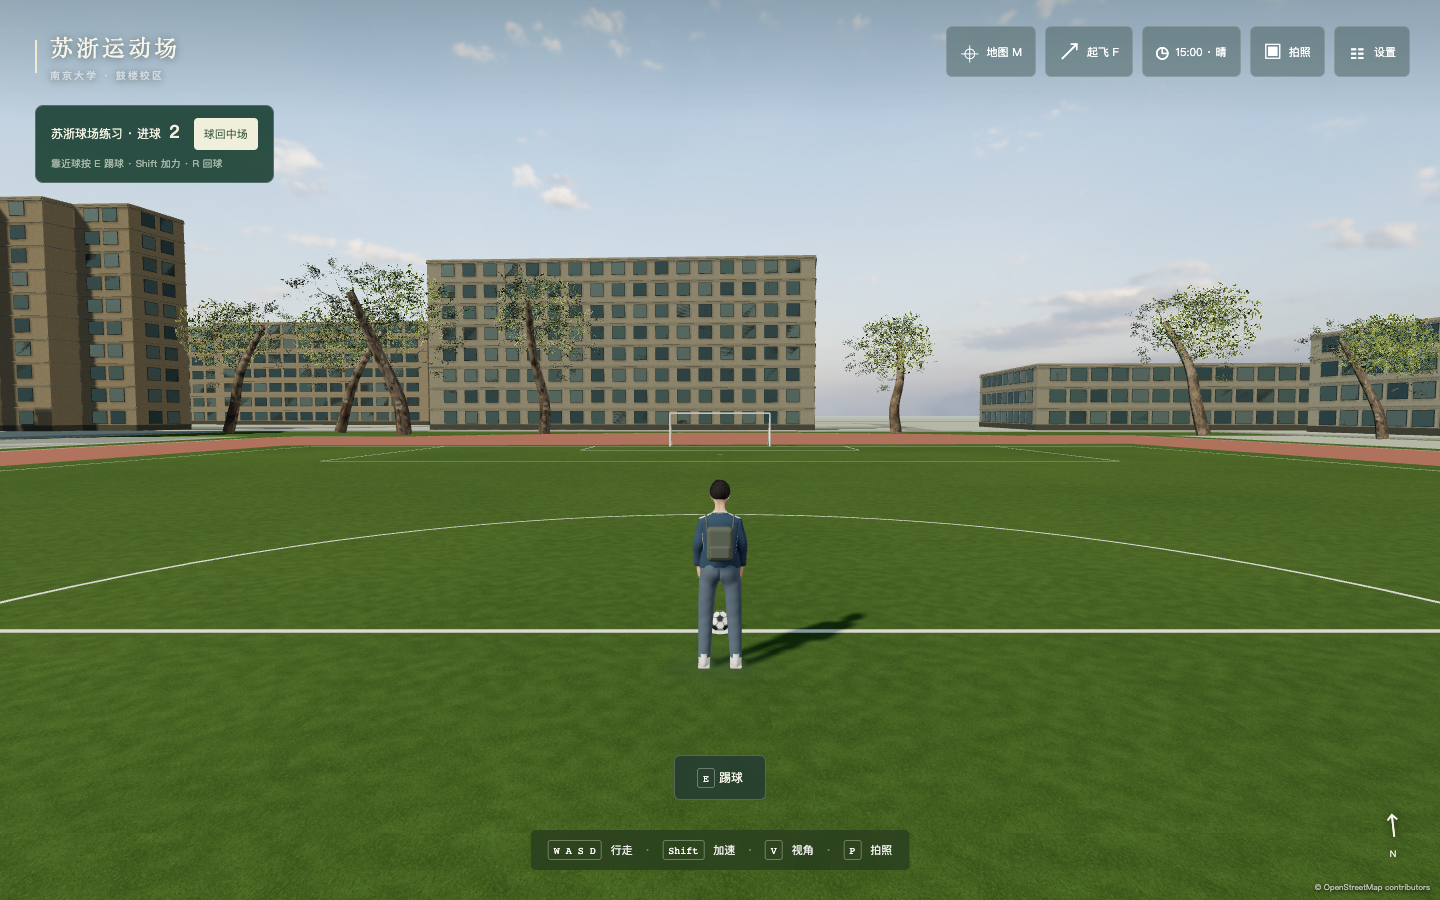
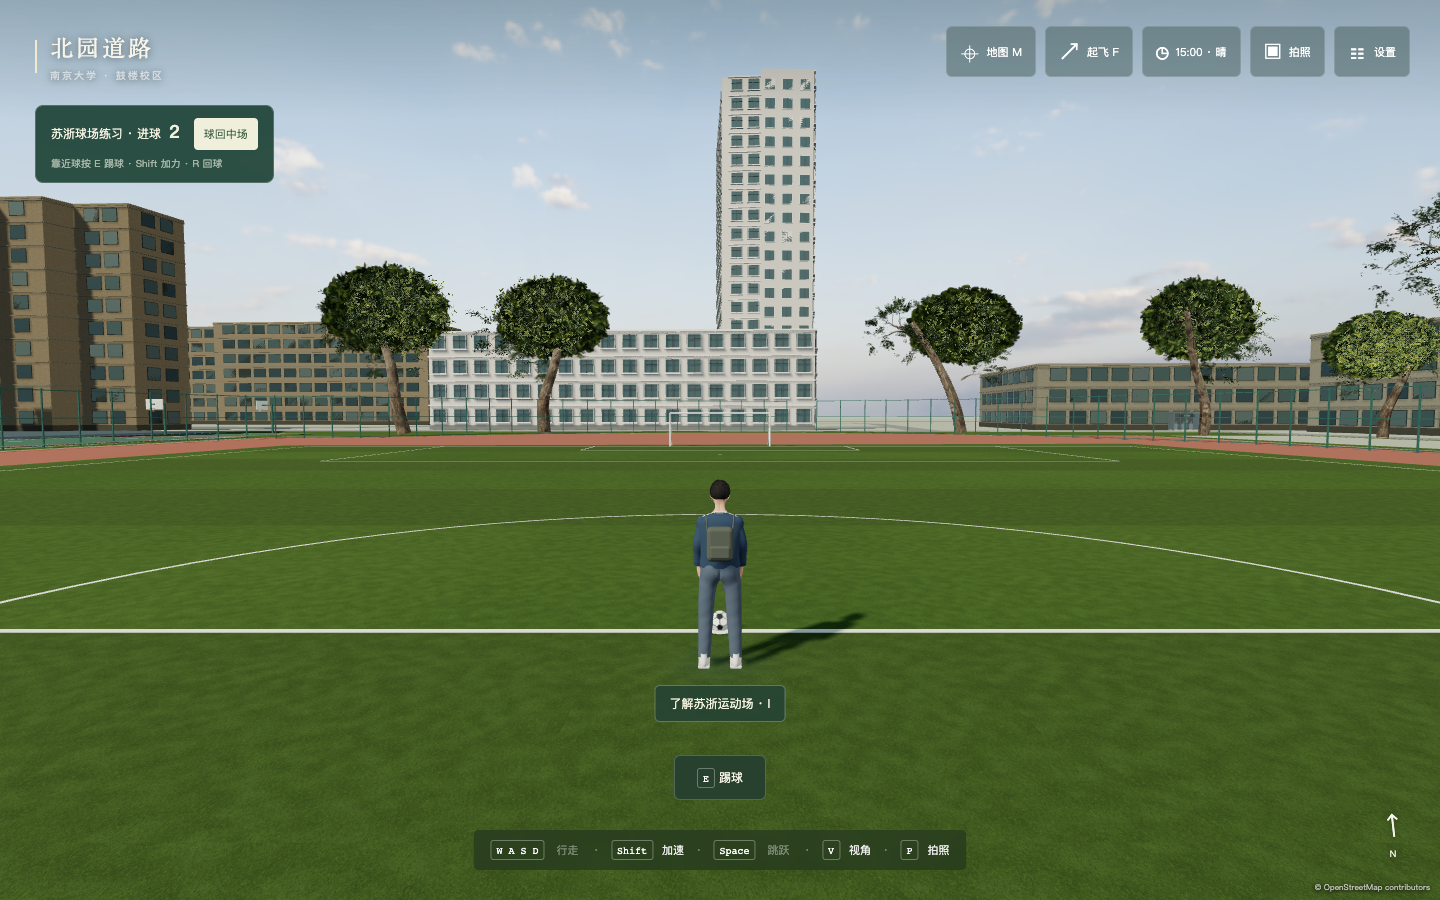
Refine Suzhe sports courts, open gates and roofed podium

diff --git a/src/world/sports-ground.ts b/src/world/sports-ground.ts
@@ -1,0 +1,135 @@
+import * as T from 'three';
+import {Builder} from './geometry.ts';
+import {insideRing,planShape} from './campus-map.ts';
+import type {Materials} from './materials.ts';
+import {sportsCourts,sportsFence,sportsGates,sportsStand} from './sports-layout.ts';
+
+type Point = [number,number];
+function frame(points:number[][]){
+  const x=points.reduce((s,p)=>s+p[0],0)/points.length,z=points.reduce((s,p)=>s+p[1],0)/points.length;
+  const width=(Math.hypot(points[1][0]-points[0][0],points[1][1]-points[0][1])+Math.hypot(points[2][0]-points[3][0],points[2][1]-points[3][1]))/2;
+  const length=(Math.hypot(points[3][0]-points[0][0],points[3][1]-points[0][1])+Math.hypot(points[2][0]-points[1][0],points[2][1]-points[1][1]))/2;
+  const angle=Math.atan2(points[3][0]+points[2][0]-points[0][0]-points[1][0],points[3][1]+points[2][1]-points[0][1]-points[1][1]);
+  return{x,z,width,length,angle,point:(u:number,y:number,v:number)=>new T.Vector3(x+u*Math.cos(angle)+v*Math.sin(angle),y,z-u*Math.sin(angle)+v*Math.cos(angle))};
+}
+
+/** Keep planting out of playing surfaces and the paths immediately around them. */
+export function sportsClearance(x:number,z:number){
+  if(insideRing(x,z,sportsFence))return true;
+  if(sportsGates.some(g=>Math.hypot(x-g.x,z-g.z)<6))return true;
+  return [...sportsCourts.map(c=>c.points),sportsStand].some(points=>{
+    const f=frame(points),dx=x-f.x,dz=z-f.z;
+    return Math.abs(dx*Math.cos(f.angle)-dz*Math.sin(f.angle))<f.width/2+2.5&&Math.abs(dx*Math.sin(f.angle)+dz*Math.cos(f.angle))<f.length/2+2.5;
+  });
+}
+
+export function createSportsGround(mats:Materials){
+  const b=new Builder();
+  const material=(name:string,color:number)=>new T.MeshStandardMaterial({name,color,roughness:.88});
+  const red=material('sports red court',0x98564c),green=material('sports green court',0x486d58),paint=material('sports court lines',0xe7e7d8);
+  // Existing campus paving uses a -1 depth bias. Keep these shallow overlays
+  // ordered above it even at grazing angles without changing global road depth.
+  for(const [index,mat] of [red,green,paint].entries()){
+    mat.polygonOffset=true;mat.polygonOffsetFactor=-(index+2);mat.polygonOffsetUnits=-(index+2);
+  }
+  const metal=material('sports green fence and supports',0x376459),roof=material('sports podium pale roof',0xd1cebc),step=material('sports podium grey steps',0xaaa99d);
+  step.map=mats.textures.get('stone-grain.webp')??null;
+  const glass=material('sports podium rear glazing',0x6f8581),board=material('sports backboards',0xcdd8cd),rim=material('sports orange hoops',0xbe6541);
+  const surf=(points:number[][],mat:T.Material,y=.055)=>b.add(new T.ShapeGeometry(planShape({points})).rotateX(-Math.PI/2),mat,0,y,0);
+  const meshCanvas=document.createElement('canvas');meshCanvas.width=meshCanvas.height=64;
+  const ctx=meshCanvas.getContext('2d')!;ctx.strokeStyle='#446f5e';ctx.lineWidth=2.4;ctx.beginPath();
+  ctx.moveTo(0,32);ctx.lineTo(32,0);ctx.lineTo(64,32);ctx.lineTo(32,64);ctx.closePath();ctx.stroke();
+  const meshTexture=new T.CanvasTexture(meshCanvas);meshTexture.colorSpace=T.SRGBColorSpace;meshTexture.wrapS=meshTexture.wrapT=T.RepeatWrapping;
+  const meshMat=new T.MeshStandardMaterial({name:'sports diamond wire mesh',map:meshTexture,alphaTest:.3,side:T.DoubleSide,roughness:.85});
+  const net=(a:T.Vector3,c:T.Vector3,height:number,cell=.18)=>{
+    const dx=c.x-a.x,dz=c.z-a.z,w=Math.hypot(dx,dz),geo=new T.PlaneGeometry(w,height),uv=geo.getAttribute('uv');
+    for(let i=0;i<uv.count;i++)uv.setXY(i,uv.getX(i)*w/cell,uv.getY(i)*height/cell);
+    b.add(geo,meshMat,(a.x+c.x)/2,a.y+height/2,(a.z+c.z)/2,new T.Euler(0,Math.atan2(-dz,dx),0));
+  };
+  for(const court of sportsCourts){
+    const f=frame(court.points),p=f.point;
+    surf(court.points,red);
+    const box=(w:number,h:number,d:number,u:number,y:number,v:number,mat:T.Material,solid=false)=>{const q=p(u,y,v);b.box(w,h,d,q.x,q.y,q.z,mat,solid,f.angle);};
+    const line=(u:number,v:number,w:number,d:number)=>box(w,.006,d,u,.07,v,paint);
+    const rect=(w:number,l:number)=>{for(const s of [-1,1]){line(s*w/2,0,.06,l);line(0,s*l/2,w,.06);}};
+    const arc=(u:number,v:number,r:number,start=0,end=Math.PI*2)=>{
+      const pts=Array.from({length:65},(_,i)=>p(u+Math.cos(start+(end-start)*i/64)*r,.074,v+Math.sin(start+(end-start)*i/64)*r));b.line(pts,.035,paint,4);
+    };
+    if(court.kind==='tennis'){
+      // Map footprints include a narrow run-off strip; the north feature with
+      // ambiguous map markings is deliberately not classified as a fifth court.
+      const w=Math.min(10.97,f.width-1.4),l=Math.min(23.77,f.length-2.2);
+      box(w,.008,l,0,.062,0,green);rect(w,l);
+      for(const s of [-1,1]){line(s*w*.375,0,.055,l);line(0,s*l*.269,w*.75,.055);line(0,s*(l/2+.1),.055,.2);}
+      line(0,0,.055,l*.538);
+      net(p(-w/2-.65,.07,0),p(w/2+.65,.07,0),.91,.1);
+      for(const s of [-1,1]){const q=p(s*(w/2+.65),.58,0);b.box(.09,1.12,.09,q.x,q.y,q.z,metal,true,f.angle);}
+      box(w+1.3,.045,.05,0,1.0,0,paint);
+      const q=p(0,.51,0);b.solids.push({x:q.x,y:q.y,z:q.z,w:w+1.3,h:.96,d:.07,angle:f.angle});
+    }else{
+      const half=court.kind==='half',w=half?f.length-1.1:Math.min(15,f.width-1.1),l=half?(f.width-1.2)*2:Math.min(28,f.length-1.4);
+      // The small northern half court has its hoop to the east in the plan.
+      const cp=(u:number,y:number,v:number)=>half?p(v,y,-u):p(u,y,v);
+      const cb=(ww:number,h:number,dd:number,u:number,y:number,v:number,mat:T.Material,solid=false)=>{const q=cp(u,y,v);b.box(ww,h,dd,q.x,q.y,q.z,mat,solid,f.angle+(half?Math.PI/2:0));};
+      const cl=(u:number,v:number,ww:number,dd:number)=>cb(ww,.006,dd,u,.071,v,paint);
+      const ca=(u:number,v:number,r:number,start:number,end:number)=>b.line(Array.from({length:49},(_,i)=>cp(u+Math.cos(start+(end-start)*i/48)*r,.075,v+Math.sin(start+(end-start)*i/48)*r)),.035,paint,4);
+      const mid=half?-l/4:0,ends=half?[1]:[-1,1];
+      cb(w,.008,half?l/2:l,0,.062,0,green);
+      for(const s of [-1,1])cl(s*w/2,0,.06,half?l/2:l);
+      for(const s of [-1,1])cl(0,s*(half?l/4:l/2),w,.06);
+      cl(0,mid,w,.06);if(!half)arc(0,0,Math.min(1.8,w*.13));
+      for(const s of ends){
+        const end=s*(half?l/4:l/2),free=end-s*Math.min(5.8,(half?l/2:l)*.35),basket=end-s*1.2;
+        cl(0,free,4.8,.06);for(const side of [-1,1])cl(side*2.4,(free+end)/2,.06,Math.abs(end-free));
+        ca(0,free,1.8,s>0?Math.PI:0,s>0?Math.PI*2:Math.PI);
+        const radius=Math.min(6.25,w/2-.5);ca(0,basket,radius,s>0?Math.PI:0,s>0?Math.PI*2:Math.PI);
+        cb(.16,3.4,.16,0,1.75,end+s*.35,metal,true);cb(.14,.12,1.55,0,3.45,end-s*.35,metal);
+        cb(1.8,1.05,.08,0,3.45,basket+s*.32,board);cb(.62,.045,.025,0,3.25,basket+s*.265,paint);
+        const q=cp(0,3.05,basket);b.add(new T.TorusGeometry(.225,.025,6,24).rotateX(Math.PI/2),rim,q.x,q.y,q.z);
+        for(let n=0;n<8;n++){const a=n*Math.PI/4;b.cylinder(cp(Math.cos(a)*.21,3.04,basket+Math.sin(a)*.21),cp(Math.cos(a)*.14,2.68,basket+Math.sin(a)*.14),.009,.009,paint,4);}
+      }
+    }
+  }
+  // Gate positions come from the labelled plan entrances. Use the local fence
+  // tangent to leave a real gap through both segments adjacent to a gate.
+  const perimeter=sportsFence.map(p=>[...p]);
+  const gates=sportsGates.map(g=>{
+    let index=0;perimeter.forEach((p,i)=>{if(Math.hypot(p[0]-g.x,p[1]-g.z)<Math.hypot(perimeter[index][0]-g.x,perimeter[index][1]-g.z))index=i;});
+    perimeter[index]=[g.x,g.z];const prev=perimeter[(index+perimeter.length-1)%perimeter.length],next=perimeter[(index+1)%perimeter.length];
+    const length=Math.hypot(next[0]-prev[0],next[1]-prev[1]);return{...g,tx:(next[0]-prev[0])/length,tz:(next[1]-prev[1])/length};
+  });
+  const fence=(a:Point,c:Point)=>{
+    const length=Math.hypot(c[0]-a[0],c[1]-a[1]);if(length<.1)return;
+    const angle=Math.atan2(-(c[1]-a[1]),c[0]-a[0]);
+    net(new T.Vector3(a[0],.08,a[1]),new T.Vector3(c[0],.08,c[1]),4.1);
+    b.solids.push({x:(a[0]+c[0])/2,y:2.12,z:(a[1]+c[1])/2,w:length,h:4.24,d:.09,angle});
+    for(const y of [.16,2.15,4.18])b.box(length,.055,.055,(a[0]+c[0])/2,y,(a[1]+c[1])/2,metal,false,angle);
+    const count=Math.ceil(length/3.4);for(let j=0;j<=count;j++){const t=j/count;b.box(.085,4.3,.085,a[0]+(c[0]-a[0])*t,2.15,a[1]+(c[1]-a[1])*t,metal);}
+  };
+  for(let i=0;i<perimeter.length;i++){
+    const a=perimeter[i],c=perimeter[(i+1)%perimeter.length],dx=c[0]-a[0],dz=c[1]-a[1],cuts=[0,1],ll=dx*dx+dz*dz;
+    for(const gate of gates){const ux=a[0]-gate.x,uz=a[1]-gate.z,bb=2*(ux*dx+uz*dz),cc=ux*ux+uz*uz-(gate.width/2)**2,disc=bb*bb-4*ll*cc;
+      if(disc>=0)for(const t of [(-bb-Math.sqrt(disc))/(2*ll),(-bb+Math.sqrt(disc))/(2*ll)])if(t>0&&t<1)cuts.push(t);
+    }
+    cuts.sort((a,c)=>a-c);
+    for(let j=1;j<cuts.length;j++){const t=(cuts[j-1]+cuts[j])/2;if(gates.some(g=>Math.hypot(a[0]+dx*t-g.x,a[1]+dz*t-g.z)<g.width/2))continue;
+      fence([a[0]+dx*cuts[j-1],a[1]+dz*cuts[j-1]],[a[0]+dx*cuts[j],a[1]+dz*cuts[j]]);
+    }
+  }
+  // Open-front west podium: shallow steps, thin cantilever canopy and glazed
+  // rear wall. No invisible solid box fills the space beneath its roof.
+  const stand=frame(sportsStand),sp=stand.point;
+  const sb=(w:number,h:number,d:number,u:number,y:number,v:number,mat:T.Material,solid=false)=>{const q=sp(u,y,v);b.box(w,h,d,q.x,q.y,q.z,mat,solid,stand.angle);};
+  for(let i=0;i<5;i++){const w=stand.width-i*.7,h=(i+1)*.18;sb(w,h,stand.length,-i*.35,h/2,0,step,true);}
+  sb(stand.width-3.5,.18,stand.length,-1.75,.99,0,step,true);
+  sb(.18,3.2,stand.length-1,-stand.width/2+.25,2.68,0,glass,true);
+  for(const v of [-stand.length/2+.65,0,stand.length/2-.65]){sb(.18,3.65,.18,1.8,2.92,v,metal,true);sb(.1,3.3,.1,-stand.width/2+.4,2.72,v,metal);}
+  for(const y of [1.2,2.65,4.25])sb(.12,.08,stand.length-1,-stand.width/2+.4,y,0,metal);
+  sb(stand.width+1.4,.24,stand.length+1.8,.5,4.88,0,roof,true);
+  // Low field-side seating, as seen through the west fence in scene_gl-3-17.
+  for(const v of [-7,-4,0,4,7]){sb(.9,.1,1.6,-.5,1.52,v,roof);for(const dz of [-.5,.5])sb(.1,.42,.1,-.5,1.26,v+dz,metal);}
+  const group=b.finish('Suzhe sports courts fences and roofed podium',40);
+  for(const child of group.children)if(child instanceof T.Mesh&&(child.material===red||child.material===green||child.material===paint||child.material===meshMat))child.castShadow=false;
+  group.userData={source:'NJU 2024 campus plan; official VR scene_gl-3-17; BV1iL411h7G2 20:00',heightConfidence:'estimated from imagery',courts:sportsCourts,gates,stand:{...stand,point:undefined}};
+  return{group,solids:b.solids,gates,courts:sportsCourts,stand:{x:stand.x,z:stand.z,angle:stand.angle,width:stand.width,length:stand.length}};
+}

diff --git a/src/world/world.ts b/src/world/world.ts
@@ -11,6 +11,7 @@ import { buildOrdinaryBuildings } from './ordinary-buildings.ts';
 import { planShape, insidePolygon, insideRing, type CampusMap } from './campus-map.ts';
 import { createPriorityDetails, createSkyline, createFireTower } from './priority-details.ts';
 import { createFootballPitch } from './football-pitch.ts';
+import { createSportsGround, sportsClearance } from './sports-ground.ts';
 import { createCampusSign, photoSpot } from './campus-sign.ts';
 import { fireTowerFootprint } from './surroundings.ts';
 import { createAccessControls, campusEntrances } from './access-controls.ts';
@@ -155,6 +156,7 @@ export async function createWorld(scene: T.Scene, mats: Materials, quality = 'me
   const access=createAccessControls(mats);root.add(access.group);solids.push(...access.solids);
   cameraSolids.push(...priority.group.children);
   root.add(createSkyline());
+  const sports=createSportsGround(mats);root.add(sports.group);solids.push(...sports.solids);cameraSolids.push(...sports.group.children);
   const field = createFootballPitch(map.features, mats); root.add(field.group); solids.push(...field.solids); cameraSolids.push(...field.group.children);
   const tower = createFireTower(), sign = createCampusSign(); root.add(tower.group, sign.group); solids.push(...tower.solids, ...sign.solids); cameraSolids.push(...tower.group.children, ...sign.group.children);
   const signElevation = courtyardHeight(-24,46);
@@ -242,7 +244,7 @@ export async function createWorld(scene: T.Scene, mats: Materials, quality = 'me
     sectors++;
     await new Promise<void>(resolve => setTimeout(resolve, 50));
     const rand = rng(88), farTrees: TreeSpot[] = [];
-    const clear = (x: number, z: number) => !ordinary.doors.some(d=>Math.hypot(d.x-x,d.z-z)<5)&&!map.features.some(f => f.tags.building && insidePolygon(x, z, f)) && !map.roads.some(r => insidePolygon(x, z, r));
+    const clear = (x: number, z: number) => !sportsClearance(x,z)&&!ordinary.doors.some(d=>Math.hypot(d.x-x,d.z-z)<5)&&!map.features.some(f => f.tags.building && insidePolygon(x, z, f)) && !map.roads.some(r => insidePolygon(x, z, r));
     // Avenue planting uses the traced road edge; other trees stay within plan lawns.
     for (let z = 156; z < 342; z += 15) for (const side of [-1, 1]) {
       const x = -85 - (z - 182) * .035 + side * 8;
@@ -295,5 +297,5 @@ export async function createWorld(scene: T.Scene, mats: Materials, quality = 'me
     return moreSolids;
   }
   const updateVegetation = (position: T.Vector3, quality: string, flying: boolean, camera=position) => vegetationUpdates.forEach(update => update(position, quality, flying,camera));
-  return { root, map, doors:ordinary.doors, bicycles, dadaoping, access, directory, garden, pitch: field.pitch, updateVegetation, solids, fixedMeshes,lampPositions,cameraSolids, expand, get sectors() { return sectors; } };
+  return { root, map, doors:ordinary.doors, bicycles, dadaoping, access, directory, garden, sports, pitch: field.pitch, updateVegetation, solids, fixedMeshes,lampPositions,cameraSolids, expand, get sectors() { return sectors; } };
 }

diff --git a/src/world/sports-layout.ts b/src/world/sports-layout.ts
@@ -1,0 +1,6 @@
+// Footprints traced from the NJU asset office 2024 campus plan.
+// Heights and equipment dimensions are approximate, checked against official VR.
+export const sportsCourts = [{"name":"basket-half","kind":"half","points":[[-252.853,-93.565],[-240.989,-93.15],[-241.871,-78.875],[-255.505,-79.409]]},{"name":"basket-north1","kind":"basketball","points":[[-255.588,-78.84],[-241.365,-78.258],[-242.961,-50.702],[-258.536,-50.174]]},{"name":"basket-north2","kind":"basketball","points":[[-258.111,-48.981],[-243.126,-49.557],[-244.39,-24.069],[-259.304,-24.017]]},{"name":"basket-south1","kind":"basketball","points":[[-258.109,13.777],[-243.091,13.093],[-244.708,41.629],[-260.423,42.869]]},{"name":"basket-south2","kind":"basketball","points":[[-259.74,50.745],[-245.285,50.016],[-245.441,76.708],[-261.101,77.31]]},{"name":"tennis-1","kind":"tennis","points":[[-141.885,-8.71],[-130.734,-9.028],[-130.953,7.187],[-141.555,7.575]]},{"name":"tennis-2","kind":"tennis","points":[[-141.829,14.553],[-130.633,14.195],[-130.853,30.543],[-141.497,30.97]]},{"name":"tennis-3","kind":"tennis","points":[[-141.629,36.838],[-130.39,36.443],[-130.61,52.918],[-141.296,53.382]]},{"name":"tennis-4","kind":"tennis","points":[[-141.644,61.062],[-130.358,60.624],[-130.204,79.051],[-141.526,79.521]]}];
+export const sportsFence = [[-226.886,-74.786],[-215.018,-87.512],[-198.479,-96.329],[-187.089,-98.178],[-179.428,-98.646],[-171.295,-93.993],[-162.453,-85.892],[-154.758,-73.351],[-148.696,-56.93],[-147.725,-32.238],[-147.981,-6.849],[-148.028,12.353],[-148.8,37.519],[-148.929,52.869],[-155.104,69.1],[-167.175,79.683],[-181.927,87.166],[-199.381,91.514],[-218.1,90.965],[-230.527,88.377],[-237.451,85.519],[-241.534,79.804],[-242.02,61.642],[-241.65,41.851],[-241.45,23.372],[-241.92,9.694],[-241.554,-9.746],[-241.356,-27.899],[-240.567,-45.891],[-239.686,-60.296],[-237.208,-73.343]];
+export const sportsGates = [{"name":"west-gate","x":-242.005,"z":9.617,"width":4.2},{"name":"east-gate","x":-148.274,"z":12.188,"width":4.2},{"name":"north-gate","x":-178.796,"z":-98.486,"width":4.2},{"name":"south-gate","x":-237.743,"z":85.879,"width":4.2}];
+export const sportsStand = [[-253.875,-11.889],[-243.087,-12.265],[-243.707,4.761],[-255.093,5.112]];

diff --git a/src/world/football-pitch.ts b/src/world/football-pitch.ts
@@ -18,6 +18,9 @@ export function createFootballPitch(features: MapFeature[], mats: Materials) {
   const paint = new T.MeshStandardMaterial({ color: 0xe3e7d9, roughness: 1, polygonOffset: true, polygonOffsetFactor: -2, polygonOffsetUnits: -2 });
   const steel = new T.MeshStandardMaterial({ color: 0xe8e9e0, metalness: .12, roughness: .6 });
   b.box(pitch.width + 4, .08, pitch.length + 4, pitch.x, .035, pitch.z, mats.grass, true, pitch.angle, 3.6);
+  // Alternating bands run across the field in the official west/east panoramas.
+  const turfBands=mats.grass.clone();turfBands.name='Suzhe transverse turf bands';turfBands.color.multiplyScalar(.82);
+  for(let row=0;row<12;row+=2){const p=pitchPoint(pitch,0,.003,-pitch.length/2+(row+.5)*pitch.length/12);b.box(pitch.width,.003,pitch.length/12,p.x,p.y,p.z,turfBands,false,pitch.angle,3.6);}
   const line = (x: number, z: number, w: number, d: number) => { const p = pitchPoint(pitch, x, .008, z); b.box(w, .006, d, p.x, p.y, p.z, paint, false, pitch.angle); };
   for (const side of [-1, 1]) { line(side * pitch.width / 2, 0, .11, pitch.length); line(0, side * pitch.length / 2, pitch.width, .11); }
   line(0, 0, pitch.width, .11);
@@ -56,7 +59,7 @@ export function createFootballPitch(features: MapFeature[], mats: Materials) {
   const group = b.finish('Suzhe football practice pitch');
   // Flat turf and painted lines only receive shadows. Casting a shadow onto
   // their own shallow surface produces bands at the far end of the pitch.
-  for (const object of group.children) if (object instanceof T.Mesh && (object.material === mats.grass || object.material === paint)) object.castShadow = false;
+  for (const object of group.children) if (object instanceof T.Mesh && (object.material === mats.grass || object.material === turfBands || object.material === paint)) object.castShadow = false;
   group.add(...nets.children.slice());
   group.userData = { source: 'inner field traced from the supplied campus plan', layout: 'approximate 90×60 m practice markings; regulation-size goal mouths' };
   return { group, solids: b.solids, pitch };

diff --git a/README.md b/README.md
@@ -36,6 +36,7 @@
 | 费彝民楼、蒙民伟楼 | 主楼／裙楼分段、冠部、入口和窗格 | 费彝民楼开口等细节正在复核 |
 | 新教学楼、南教学楼 | 2024官方图重核轮廓，西端入口，新教三阶雨棚及照片题字；东大楼平台与长石阶高差 | 辅楼对应关系、未见侧和精确高程仍待核实 |
 | 南园二舍、松林楼及其他宿舍 | 入口门牌、窗格、阳台／空调、局部玻璃立面和车棚 | 逐栋细化未见侧与设备位置 |
+| 苏浙运动场 | 沿跑道围网、四处通道、四块篮球场及半场、东侧网球场、带顶棚主席台；保留踢球玩法 | 场地与设备尺寸为地图／影像近似；篮网球器材目前为场景设施 |
 | 南园教学楼、各餐厅 | 分别制作体量与入口、补屋顶／窗格 | 独立室外参考仍需补充 |
 
 ## 现在可以玩什么
@@ -54,6 +55,7 @@
 - 切换男生／女生形象与三套日常穿搭，坐一会儿，保存最长边 2048 像素的照片。
 - 到松林休憩点坐在石凳上，起身后沿短小径回到校园道路。
 - 到 I ❤ NJU 合影点，斜拍北大楼与紫峰大厦。
+- 漫步运动场围网内外，经开放入口进入跑道，走上西侧带顶棚主席台；查看篮球场与东侧网球场。
 - 在苏浙运动场踢球练习：靠近足球轻踢或加力射门，进球计数，也可一键把球送回中场。
 - 导入喜欢的本地音乐，在校园里随机轮播。
 
@@ -285,7 +287,7 @@ npm run build
 npm run preview
 ```
 
-启动本地预览后，`npm run test:flight-wardrobe` 检查高空地面显示与穿搭持久化；`npm run test:football` 可验证桌面／触屏踢球、双端进球、门柱碰撞与暂停；`npm run test:mobile` 和 `npm run test:gate-photo` 检查手机操作、门洞通行与高清照片导出。
+启动本地预览后，`npm run test:flight-wardrobe` 检查高空地面显示与穿搭持久化；`npm run test:football` 可验证桌面／触屏踢球、双端进球、门柱碰撞与暂停；`npm run test:sports` 检查运动场四处通道的步行／骑行、围网碰撞与主席台；`npm run test:mobile` 和 `npm run test:gate-photo` 检查手机操作、门洞通行与高清照片导出。
 
 目前仅本地开发，仓库已私有、网页已撤下。`build:pages` 只保留为将来重新获得发布授权后的构建方式，不会自动上传。详见 [部署说明](docs/deployment.md)。
 
